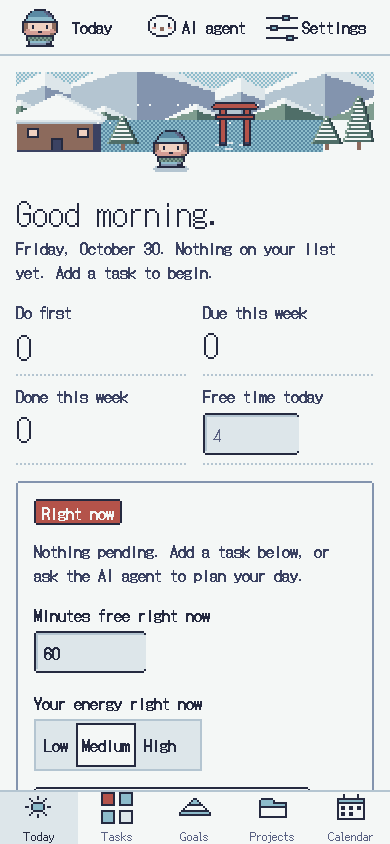
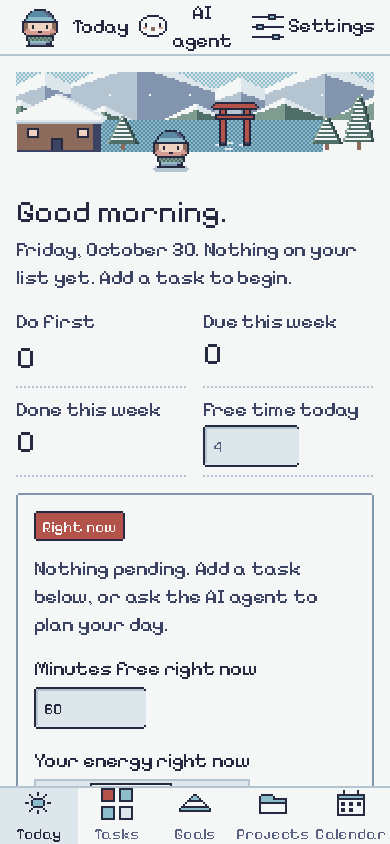
Switch to Pixelify Sans for a more readable, game-style type; body 20px, ligatures off

diff --git a/src/index.css b/src/index.css
@@ -2,20 +2,20 @@
 
 @theme {
   /* Yuki: a quiet snowy morning drawn in pixels. Colours are yuki16 only; shading comes from the ramps, never opacity. */
-  --font-sans: 'DotGothic16', 'Fusion Pixel 12px Proportional JP', ui-monospace, monospace;
-  --font-serif: 'DotGothic16', ui-monospace, monospace;
-  --font-meta: 'Fusion Pixel 12px Proportional JP', 'DotGothic16', ui-monospace, monospace;
-  /* DotGothic16 sits on a 16px grid (16/32/48); the meta face on 12px (12/24). */
-  --text-xs: 12px; --text-xs--line-height: 16px;
-  --text-sm: 16px; --text-sm--line-height: 24px; /* pixel-ok: token pinned to the 16/32/48 grid */
-  --text-base: 16px; --text-base--line-height: 24px;
-  --text-lg: 16px; --text-lg--line-height: 24px; /* pixel-ok: token pinned to the 16/32/48 grid */
-  --text-xl: 32px; --text-xl--line-height: 32px; /* pixel-ok: token pinned to the 16/32/48 grid */
-  --text-2xl: 32px; --text-2xl--line-height: 40px;
-  --text-3xl: 32px; --text-3xl--line-height: 40px; /* pixel-ok: token pinned to the 16/32/48 grid */
-  --text-4xl: 32px; --text-4xl--line-height: 40px;
+  --font-sans: 'Pixelify Sans', 'Fusion Pixel 12px Proportional JP', ui-monospace, monospace;
+  --font-serif: 'Pixelify Sans', ui-monospace, monospace;
+  --font-meta: 'Fusion Pixel 12px Proportional JP', 'Pixelify Sans', ui-monospace, monospace;
+  /* Pixelify Sans: a game-style pixel face that stays readable. Sizes: 16 (small), 20 (body), 32, 48. */
+  --text-xs: 16px; --text-xs--line-height: 20px;
+  --text-sm: 20px; --text-sm--line-height: 28px; /* pixel-ok: token pinned to the type scale (16/20/32/48) */
+  --text-base: 20px; --text-base--line-height: 28px;
+  --text-lg: 20px; --text-lg--line-height: 28px; /* pixel-ok: token pinned to the type scale (16/20/32/48) */
+  --text-xl: 32px; --text-xl--line-height: 36px; /* pixel-ok: token pinned to the type scale (16/20/32/48) */
+  --text-2xl: 32px; --text-2xl--line-height: 36px;
+  --text-3xl: 32px; --text-3xl--line-height: 36px; /* pixel-ok: token pinned to the type scale (16/20/32/48) */
+  --text-4xl: 32px; --text-4xl--line-height: 36px;
   --text-5xl: 48px; --text-5xl--line-height: 56px;
-  --text-7xl: 48px; --text-7xl--line-height: 56px; /* pixel-ok: token pinned to the 16/32/48 grid */
+  --text-7xl: 48px; --text-7xl--line-height: 56px; /* pixel-ok: token pinned to the type scale (16/20/32/48) */
   --font-weight-medium: 400; --font-weight-semibold: 400; --font-weight-bold: 400;
   --radius-lg: 0; --radius-xl: 0; --radius-2xl: 0; --radius-3xl: 0;
 
@@ -51,9 +51,8 @@
 @media (min-width: 640px) { :root { --px-scene: 4px; } }
 
 html { touch-action: manipulation; -webkit-tap-highlight-color: transparent; overscroll-behavior-y: none; background: var(--bg); }
-body { background: var(--bg); font-family: var(--font-sans); font-size: 16px; line-height: 24px; color: var(--ink); font-synthesis: none; -webkit-font-smoothing: none; }
+body { background: var(--bg); font-family: var(--font-sans); font-size: 20px; line-height: 28px; word-spacing: 2px; font-variant-ligatures: none; font-feature-settings: 'liga' 0, 'clig' 0; color: var(--ink); font-synthesis: none; -webkit-font-smoothing: none; }
 b, strong { font-weight: 400; color: var(--color-yoru-2); }
-.text-xs { font-family: var(--font-meta); }
 .px-art { image-rendering: pixelated; }
 ::selection { background: var(--color-kori-1); color: var(--ink); }
 button { -webkit-tap-highlight-color: transparent; }
@@ -77,7 +76,7 @@ hr { border: 0; height: var(--px); background: url(/pixel/divider.png) 0 0 / cal
 .px-btn-primary { border-image: url(/pixel/btn-primary.png) 3 fill / calc(3 * var(--px)) stretch; color: var(--color-yuki-0); }
 .px-btn-secondary { border-image: url(/pixel/btn-secondary.png) 3 fill / calc(3 * var(--px)) stretch; color: var(--ink); }
 .px-btn-danger { border-image: url(/pixel/btn-danger.png) 3 fill / calc(3 * var(--px)) stretch; color: var(--color-yuki-0); }
-.px-tab { padding: 0 var(--px); font-size: 16px; line-height: 16px; color: var(--color-yuki-0); }
+.px-tab { padding: 0 var(--px); font-size: 16px; line-height: 20px; color: var(--color-yuki-0); }
 .px-tab-beni { border-image: url(/pixel/tab-beni.png) 3 fill / calc(3 * var(--px)) stretch; }
 .px-tab-kori { border-image: url(/pixel/tab-kori.png) 3 fill / calc(3 * var(--px)) stretch; }
 .px-tab-matsu { border-image: url(/pixel/tab-matsu.png) 3 fill / calc(3 * var(--px)) stretch; }

diff --git a/src/main.jsx b/src/main.jsx
@@ -1,6 +1,6 @@
 import { lazy, Suspense } from 'react'
 import { createRoot } from 'react-dom/client'
-import '@fontsource/dotgothic16'
+import '@fontsource/pixelify-sans'
 import '@fontsource/fusion-pixel-12px-proportional-jp'
 import './index.css'
 import App from './App.jsx'

diff --git a/design/DESIGN.md b/design/DESIGN.md
@@ -83,7 +83,7 @@ States for all interactive pieces: rest, hover (yuki-1 fill, no motion), pressed
 | Tabs / nav | no frame; active tab gets a 2-art-px ink underline with a beni notch only on Today if overdue | none |
 | Panel | 9-slice `panel-frame`: yuki-0 fill, yuki-2 outline plus yuki-2 shadow row, quadrant tab variants | `panel-frame`, `panel-tab-{beni,kori,matsu,yuki}` |
 | Row (task) | no frame of its own, divided by dotted 1-art-px divider | `divider-dot`, drag grip 8×8, more-dots icon |
-| Stat tile | `panel-frame`, number in DotGothic 32 | none |
+| Stat tile | `panel-frame`, number in Pixelify Sans 32 | none |
 | Avatar | none; 24×24 two-frame sheet, 48px | 7 `.sprite.txt`, `avatar-*` sheets |
 | Toast | `panel-frame` in yoru-1 fill with yuki-0 text, bottom-left | none; copy repeats the verb ("Task done: ...") |
 | Dialog (getting started) | `panel-frame` centred, backdrop is a solid yoru-2 checker, not opacity | `backdrop-checker` |
@@ -146,3 +146,4 @@ Your answers: 1 ok (quadrants by position), 2 ok (`avatar` in `SETTINGS`), 3 "do
 - **Avatar picker** lives in Settings (3 beanie colourways plus the six animals). Nav shows the user's avatar; the chat shows the shimaenaga.
 - **Hanko** plays in the "Done" toast, because the finished row leaves the Today list at once and could not show it.
 - **Not built:** Tooltip and a standalone Dialog component (the one dialog, Getting started, uses the panel frame and checker backdrop directly), and 16x16 head sprites.
+- **Font changed after review (your request):** DotGothic16 was hard to read at 16px, so body and headings now use **Pixelify Sans** (OFL, game-style). Sizes are 16 small, 20 body, 32 and 48. Fusion Pixel stays only as the fallback for Japanese glyphs. Ligatures are off because Pixelify's "fi" renders as a different glyph. This overrides the original 16/32/48 and 12/24 rule.
